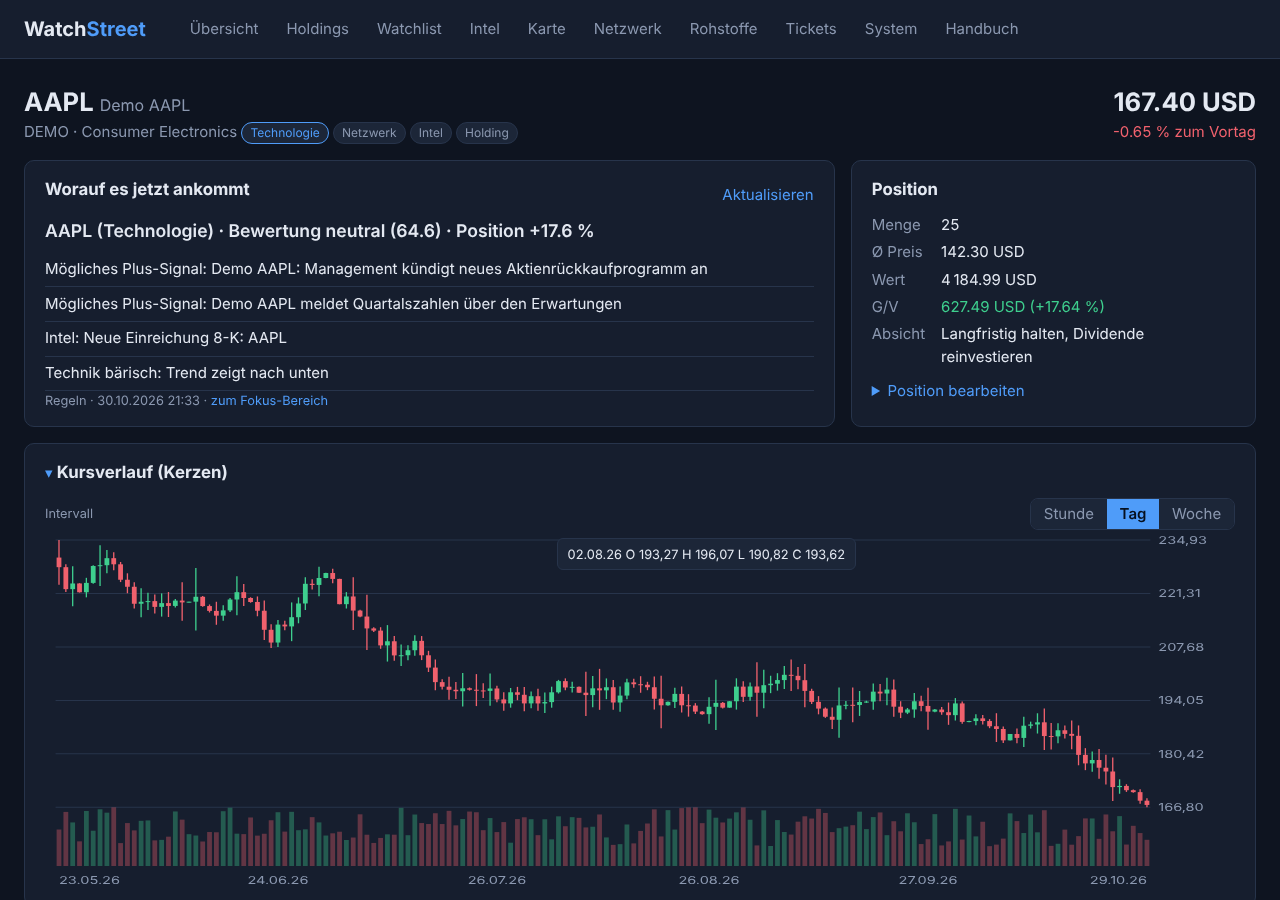
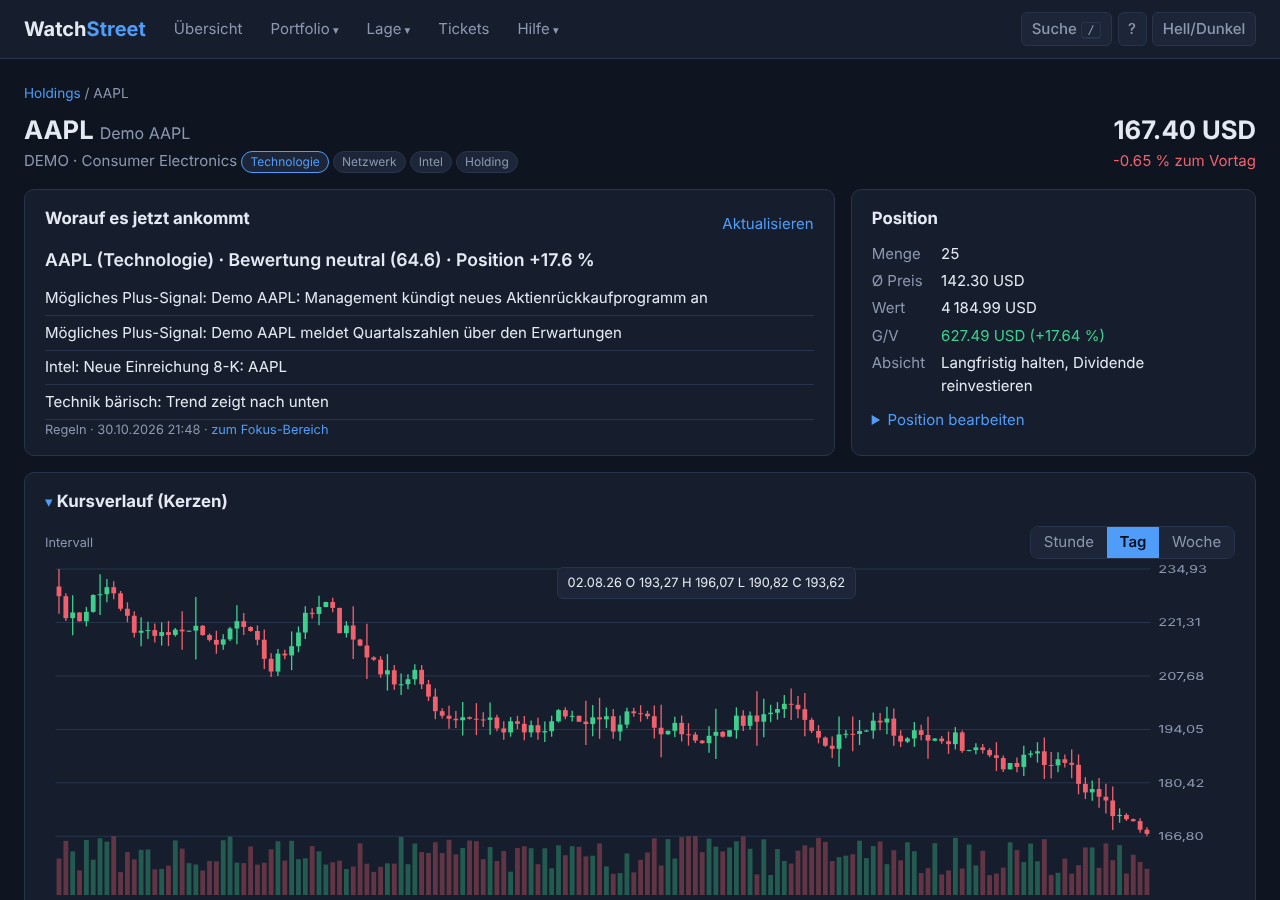
Document UX features in the manual and refresh screenshots
Claude-Session: https://claude.ai/code/session_01DPD6q6Wm3yEuK1UiySpCLg

diff --git a/docs/user-manual.md b/docs/user-manual.md
@@ -6,7 +6,7 @@ WatchStreet überwacht deine Aktien. Du trägst ein, was du besitzt (**Holdings*
 
 ## 1. Aufruf
 
-Nach `docker compose up --build` ist die Anwendung unter **http://localhost:8000** erreichbar. Oben befindet sich die Navigation: *Übersicht, Holdings, Watchlist, Tickets, System, Handbuch*. Dieses Handbuch ist auch in der Anwendung unter **Handbuch** abrufbar.
+Nach `docker compose up --build` ist die Anwendung unter **http://localhost:8000** erreichbar. Oben befindet sich die Navigation: *Übersicht*, *Portfolio* (Holdings, Watchlist), *Lage* (Intel, Karte, Netzwerk, Rohstoffe), *Tickets* und *Hilfe* (System, Handbuch). Auf dem Smartphone öffnet die Schaltfläche *Menü* die Navigation. Dieses Handbuch ist auch in der Anwendung unter **Handbuch** abrufbar.
 
 ## 2. Grundkonzepte
 
@@ -20,6 +20,37 @@ Nach `docker compose up --build` ist die Anwendung unter **http://localhost:8000
 | **Score** | Zahl 0–100 nach einem festen Schema. Jede Messung wird gespeichert, so entsteht ein Verlauf. |
 | **These** | Die Investmentthese. Jede Prüfung legt eine neue Version mit Status an. |
 | **Folgeticket** | Ein Ticket, das ein abgeschlossenes Ticket vorgeschlagen hat. |
+
+## 2a. Bedienung und Komfort
+
+![Schnellsprung](screenshots/21-palette.png)
+
+* **Schnellsprung:** Die Taste **/** (oder **Strg+K**) öffnet eine Suche. Du tippst ein Symbol, einen Namen oder eine Seite, wählst mit **↑ ↓** und springst mit **Enter**.
+* **Tastaturkürzel:** **g** gefolgt von **u** (Übersicht), **h** (Holdings), **w** (Watchlist), **i** (Intel), **t** (Tickets), **k** (Karte), **n** (Netzwerk) oder **r** (Rohstoffe). **?** zeigt die Liste. Kürzel sind in Eingabefeldern ausgeschaltet.
+
+![Tastaturkürzel](screenshots/23-shortcuts.png)
+
+* **Rückmeldung nach Aktionen:** Jede Aktion (Position eintragen, Ticket anlegen, Quelle löschen …) bestätigt sich mit einer kurzen Meldung unten rechts. Fehler erscheinen oben auf der Seite und erhalten den Fokus.
+
+![Bestätigung](screenshots/22-toast.png)
+
+* **Live-Status von Tickets:** Wartende und laufende Tickets aktualisieren ihren Status von selbst (alle paar Sekunden, seltener im Hintergrund-Tab). Wird ein Ticket fertig, erscheint eine Meldung und die Seite lädt sich neu, damit Briefing, Scores und Zähler aktuell sind.
+* **Sortieren und Filtern:** In Holdings, Watchlist und Tickets sortiert ein Klick auf eine Spaltenüberschrift (nochmals: umgekehrt); das Feld *Filtern* blendet nicht passende Zeilen sofort aus.
+
+![Sortierte Holdings](screenshots/24-holdings-sorted.png)
+
+* **Panels merken sich ihren Zustand:** Auf der Aktienseite bleibt ein auf- oder zugeklapptes Panel beim nächsten Besuch so (pro Browser). Ein Link wie „zum Fokus-Bereich“ oder `#evidence` öffnet das Panel automatisch.
+* **Sicherheitsabfrage nur bei Löschaktionen:** Position, Watchlist-Eintrag, Datenpunkt, Quelle und das Abbrechen eines Tickets fragen nach. Schaltflächen sperren sich nach dem Absenden gegen doppeltes Klicken.
+* **Hell und Dunkel:** *Hell/Dunkel* in der Kopfzeile wechselt das Farbschema; ohne Wahl folgt die Seite dem Betriebssystem. Die Wahl wird im Browser gespeichert.
+
+![Helles Farbschema](screenshots/25-light-theme.png)
+
+* **Smartphone:** Tabellen scrollen seitlich, die Navigation klappt auf.
+
+![Mobile Navigation](screenshots/26-mobile-menu.png) ![Mobile Aktie](screenshots/27-mobile-stock.png)
+
+* **Netzwerk:** *Knoten suchen* hebt Treffer hervor, ein Klick auf einen Eintrag der Legende blendet diese Knotenart aus oder ein, *Zurücksetzen* stellt alles wieder her. Knoten sind per Tab erreichbar und mit Enter auswählbar.
+* **Zugänglichkeit:** *Zum Inhalt springen* (erste Tab-Stelle), sichtbarer Fokusrahmen, Pfadangaben (Breadcrumbs) auf Detailseiten, Meldungen werden Screenreadern angesagt.
 
 ## 3. Übersicht (Dashboard)
 
@@ -39,7 +70,7 @@ Nach `docker compose up --build` ist die Anwendung unter **http://localhost:8000
 
 **Tabelle:** Kurs, Tagesänderung, Wert und Gewinn/Verlust je Position. Ein Klick auf das Symbol öffnet die Aktie. *Entfernen* löscht nur die Position; Tickets, Erkenntnisse und Thesen bleiben erhalten.
 
-**Fehlermeldungen:** Ungültige Eingaben (z. B. Text statt Zahl, unbekanntes Symbol, doppelte Position) werden angezeigt, deine Eingaben bleiben im Formular stehen.
+**Fehlermeldungen:** Der Browser prüft Zahlenfelder schon beim Absenden (Text statt Zahl wird markiert). Weitere Fehler (z. B. unbekanntes Symbol, doppelte Position) zeigt die Seite oben an; deine Eingaben bleiben im Formular stehen.
 
 ![Fehlermeldung](screenshots/03-holdings-error.png)
 
